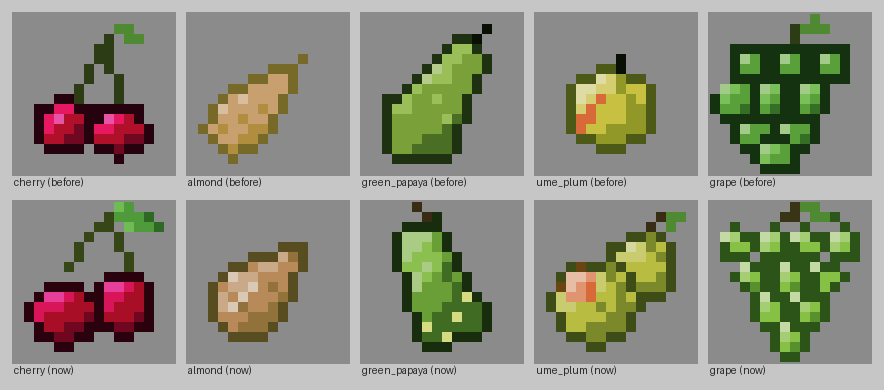
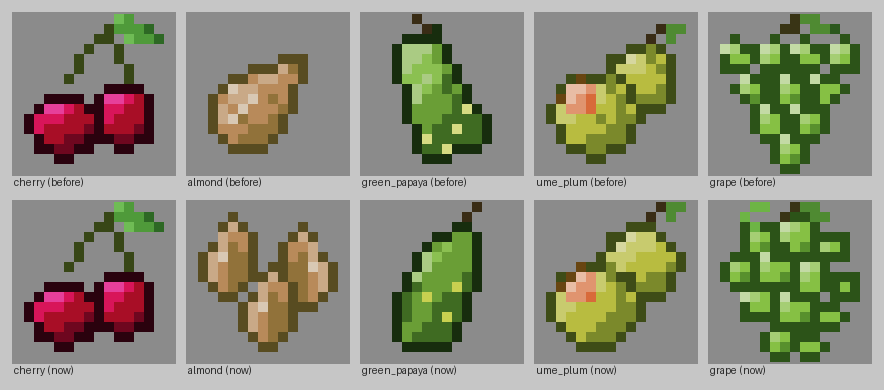
Rework almond, green papaya, ume, and grape after review
Three hand-placed almonds in a pile, a slimmer papaya with its stem on its axis,
a rounder back ume, and a natural, uneven grape bunch with a tendril.

Claude-Session: https://claude.ai/code/session_015LnbBras9DEmUQEKydUTyp

diff --git a/.workflow/art/item_sprites.py b/.workflow/art/item_sprites.py
@@ -800,50 +800,63 @@ def cherry_hand():
     return s
 
 
+ALMOND = [  # One almond, pixel by pixel: o outline, s shadow, b base, l light, h highlight, r a ridge.
+    "...o..",
+    "..olo.",
+    "..lbbo",
+    ".olrbo",
+    "olhrso",
+    "olbrso",
+    "olbrso",
+    ".obso.",
+    "..oo..",
+]
+
+
+def stamp(s, art, tones, x0, y0, mirror=False):
+    """Draws a hand-placed pixel pattern with a ramp, at a position, optionally mirrored left to right."""
+    key = {"o": OUTLINE, "s": SHADOW, "b": BASE, "l": LIGHT, "h": HIGHLIGHT, "r": SHADOW}
+    width = max(len(row) for row in art)
+    for y, row in enumerate(art):
+        for x, ch in enumerate(row):
+            if ch in key:
+                s.put(x0 + (width - 1 - x if mirror else x), y0 + y, tones[key[ch]])
+
+
 def almond_hand():
     s = Sprite()
     shell = ramp("#b88a5a")
-    angle = -45
-    cos, sin = math.cos(math.radians(angle)), math.sin(math.radians(angle))
-    base, tip, radius = -1.6, 7.6, 4.1
-
-    def half_width(u):
-        # A teardrop: a round base that tapers to a point.
-        if u <= base:
-            return radius * math.sqrt(max(0, 1 - ((u - base) / radius) ** 2))
-        return radius * max(0, 1 - ((u - base) / (tip - base)) ** 1.4)
-
-    def inside(x, y):
-        u, v = (x - 7.0) * cos + (y - 9.0) * sin, -(x - 7.0) * sin + (y - 9.0) * cos
-        return abs(v) <= half_width(u)
-
-    def pits(x, y):
-        return -1 if (x * 2 + y * 3) % 5 == 0 else 0
-    s.shape(inside, shell, (6.0, 10.0), (4.6, 4.6), texture=pits)
-    s.pixels_at(shell[HIGHLIGHT], [(4, 10), (5, 9), (6, 8)])
+    # Three almonds in a little pile, the front one drawn last.
+    stamp(s, ALMOND, shell, 1, 1)
+    stamp(s, ALMOND, shell, 9, 2, mirror=True)
+    stamp(s, ALMOND, shell, 5, 6)
     return s
 
 
 def green_papaya_hand():
     s = Sprite()
     skin = ramp("#6a9e36")
-    angle = 20
+    angle = 25
     cos, sin = math.cos(math.radians(angle)), math.sin(math.radians(angle))
 
     def inside(x, y):
-        # A long pear: full at the bottom, narrowing toward the stem.
-        u, v = (x - 7.5) * sin + (y - 8.5) * cos, (x - 7.5) * cos - (y - 8.5) * sin
-        if not -6.8 <= u <= 6.2:
+        # An egg: rounder and fuller at the bottom, gently narrower at the stem.
+        u, v = -(x - 7.8) * sin + (y - 8.6) * cos, (x - 7.8) * cos + (y - 8.6) * sin
+        length = 7.3
+        if abs(u) > length:
             return False
-        return abs(v) <= 2.6 + 1.8 * (u + 6.8) / 13.0 - 1.6 * max(0, (u - 3.5) / 2.7) ** 2
+        width = 3.8 * math.sqrt(1 - (u / length) ** 2) * (1 + 0.22 * u / length)
+        return abs(v) <= width
 
     def ribs(x, y):
-        v = (x + 0.5 - 7.5) * cos - (y + 0.5 - 8.5) * sin
-        return -1 if abs(v - 1.6) < 0.5 else 0
-    s.shape(inside, skin, (6.8, 9.0), (5.0, 6.4), texture=ribs)
-    s.pixels_at(ramp("#c8d050")[LIGHT], [(9, 11), (6, 12), (8, 13), (10, 9)])
-    s.pixels_at(skin[HIGHLIGHT], [(5, 7), (5, 8), (6, 6)])
-    s.pixels_at(ramp("#6b4a2a")[SHADOW], [(6, 1), (5, 0)])
+        v = (x + 0.5 - 7.8) * cos + (y + 0.5 - 8.6) * sin
+        return -1 if abs(abs(v) - 2.2) < 0.45 else 0
+    s.shape(inside, skin, (7.0, 8.0), (4.4, 6.9), texture=ribs)
+    s.pixels_at(skin[HIGHLIGHT], [(6, 5), (6, 6), (5, 7)])
+    s.pixels_at(ramp("#c8d050")[BASE], [(8, 11), (6, 9), (9, 8)])
+    # The stem sits on the fruit's axis, at the narrow top.
+    tip = (7.8 + 7.4 * sin, 8.6 - 7.4 * cos)
+    s.pixels_at(ramp("#6b4a2a")[SHADOW], [(round(tip[0] - 0.5), round(tip[1] - 0.5)), (round(tip[0] + sin - 0.5), round(tip[1] - cos - 0.5))])
     return s
 
 
@@ -853,30 +866,31 @@ def ume_plum_hand():
 
     def colour(x, y):
         return blush if math.dist((x + 0.5, y + 0.5), (4.4, 8.4)) < 2.1 else skin
-    # Two small ume, one behind the other.
-    s.ellipse(skin, 10.6, 6.6, 3.8, 3.7, texture=speckle(41, 0.12, up=0))
-    s.pixels_at(skin[SHADOW], [(11, 3), (11, 4), (12, 5)])
-    s.ellipse(colour, 6.0, 10.2, 4.6, 4.5, texture=speckle(43, 0.12, up=0))
+    # Two small ume, one behind the other, both round.
+    s.ellipse(skin, 10.4, 6.4, 4.2, 4.2, texture=speckle(41, 0.12, up=0))
+    s.ellipse(colour, 6.0, 10.4, 4.7, 4.6, texture=speckle(43, 0.12, up=0))
     s.pixels_at(skin[SHADOW], [(7, 6), (7, 7), (8, 8), (8, 9)])
-    s.pixels_at(skin[HIGHLIGHT], [(9, 4)])
+    s.pixels_at(skin[HIGHLIGHT], [(8, 4), (9, 3)])
     s.pixels_at(blush[HIGHLIGHT], [(3, 8)])
-    s.pixels_at(ramp("#6b4a2a")[SHADOW], [(11, 2), (12, 1)])
-    s.pixels_at(LEAF[BASE], [(13, 1), (14, 1), (13, 2)])
+    s.pixels_at(ramp("#6b4a2a")[SHADOW], [(11, 1), (12, 0)])
+    s.pixels_at(LEAF[BASE], [(13, 0), (14, 0), (13, 1)])
     return s
 
 
 def grape_hand():
     s = Sprite()
     berry = ramp("#86c044")
-    # Four, three, two, then one berry: a neat bunch, drawn from the top so lower berries overlap.
-    rows = [(4.4, [2.6, 6.2, 9.8, 13.4]), (7.6, [4.4, 8.0, 11.6]), (10.8, [6.2, 9.8]), (13.8, [8.0])]
-    for cy, xs in rows:
-        for cx in xs:
-            s.ellipse(berry, cx, cy, 2.0, 2.0, light=(-0.7, -0.7))
+    # Berries of different sizes placed by hand, the bunch leaning and tapering off to one side, back rows first.
+    berries = [(5.0, 3.8, 2.1), (8.6, 3.4, 2.3), (12.0, 4.6, 1.9), (3.0, 7.0, 1.9), (6.6, 6.9, 2.3), (10.3, 7.6, 2.2),
+               (13.4, 8.6, 1.7), (4.8, 10.4, 2.1), (8.4, 10.8, 2.3), (11.8, 11.4, 1.8), (6.9, 13.9, 1.9), (10.0, 14.4, 1.6)]
+    for cx, cy, r in berries:
+        s.ellipse(berry, cx, cy, r, r, light=(-0.7, -0.7))
+        if r > 2.0:
             s.put(int(cx) - 1, int(cy) - 1, berry[HIGHLIGHT])
-    s.pixels_at(ramp("#6b5a2a")[SHADOW], [(8, 0), (8, 1), (7, 1)])
-    s.pixels_at(LEAF[BASE], [(9, 0), (10, 0), (11, 1), (10, 1)])
-    s.pixels_at(LEAF[SHADOW], [(12, 1)])
+    s.pixels_at(ramp("#6b5a2a")[SHADOW], [(8, 0), (7, 1)])
+    s.pixels_at(LEAF[BASE], [(9, 0), (10, 0), (10, 1), (11, 1)])
+    # A curling tendril.
+    s.pixels_at(LEAF[LIGHT], [(5, 0), (4, 0), (3, 1), (4, 2)])
     return s
 
 
